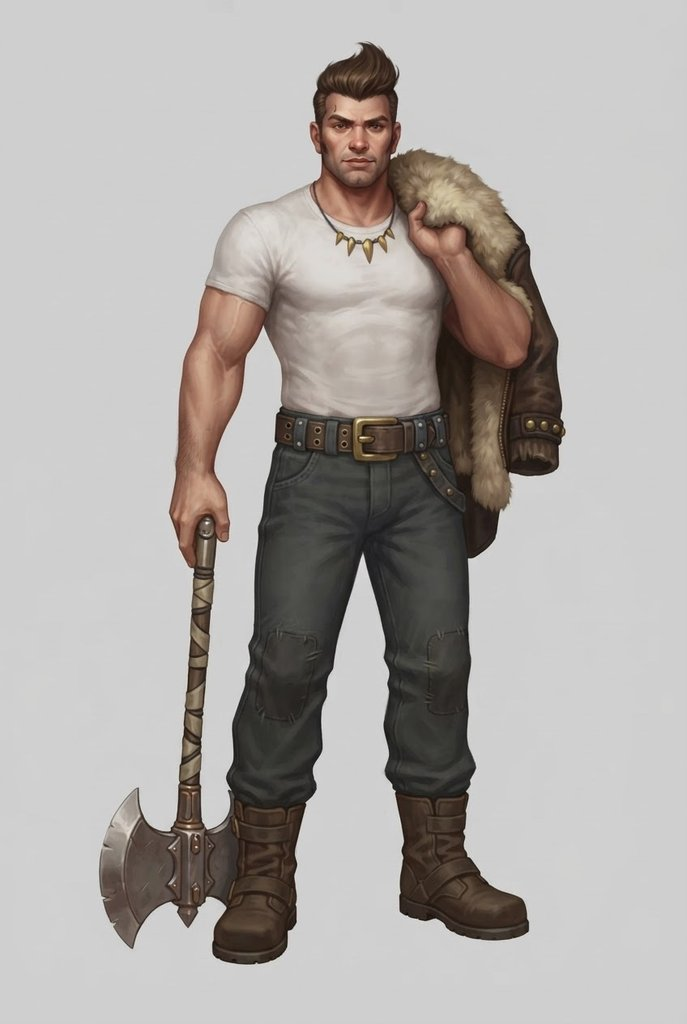
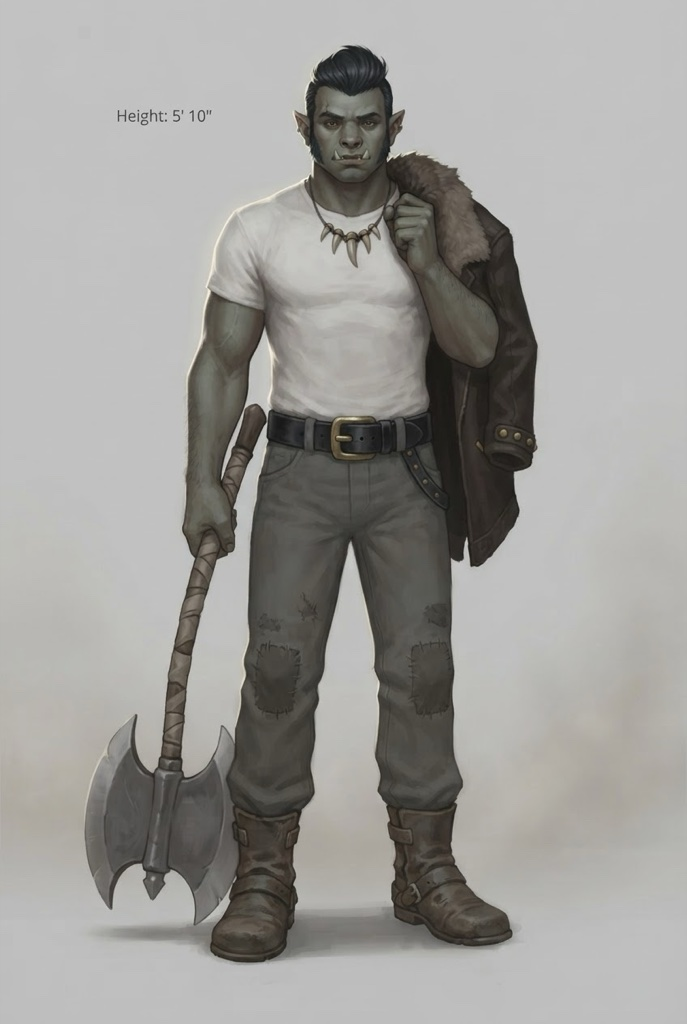
Tauren is a half-orc; prompts and images for four more events
Tauren's cast text, notes and full-body reference now make him a mostly human half-orc with grey-green skin and small tusks. Full-body references drop the style's in-the-action camera sentence, which put a blurred crowd behind the figure.

New prompts and images for the prison train, Lirael playing both sides of the riot, the bag of devouring and the broken portal.

diff --git a/gen/fullbody.py b/gen/fullbody.py
@@ -23,6 +23,8 @@ PORTRAITS = json.loads((ROOT / "gen/regen/portraits.json").read_text())
 NOTES = json.loads((ROOT / "gen/world/cast_notes.json").read_text())
 HEIGHTS = json.loads((ROOT / "gen/world/heights.json").read_text())
 STYLE = (ROOT / "gen/world/tone.txt").read_text().split("Style:", 1)[1].split("\n", 1)[0].strip()
+# a reference is one still figure on plain grey; the style's in-the-action camera would add a crowd and blur behind it
+STYLE = re.sub(r"A dynamic, tilted camera[^.]*\.\s*", "", STYLE)
 
 
 def slug(name):
